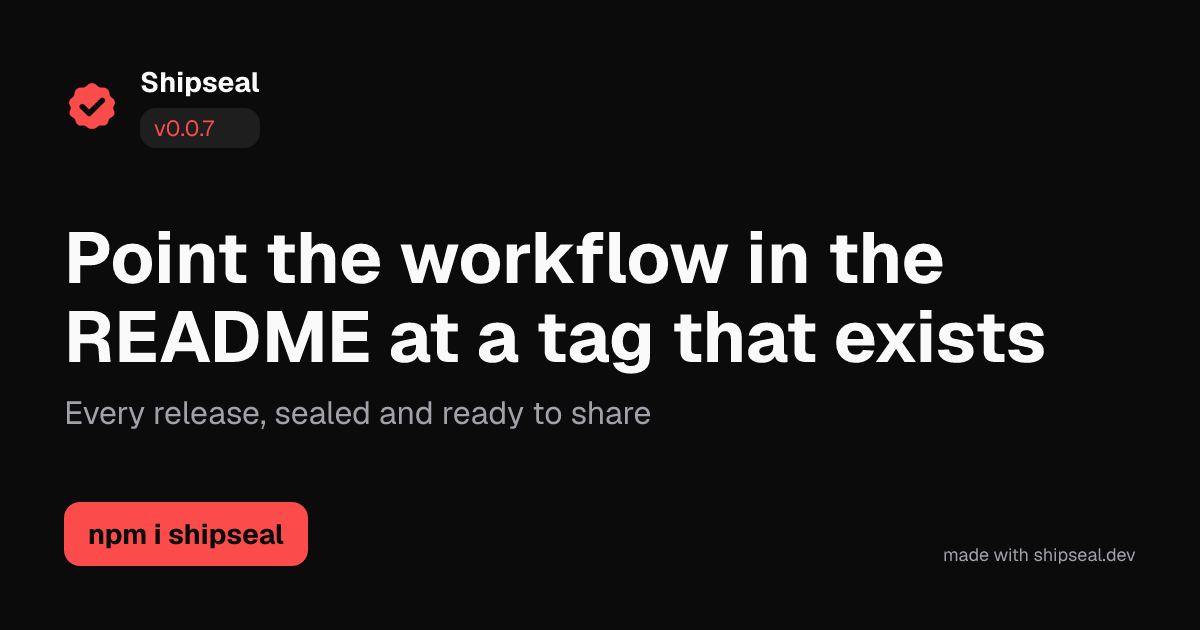
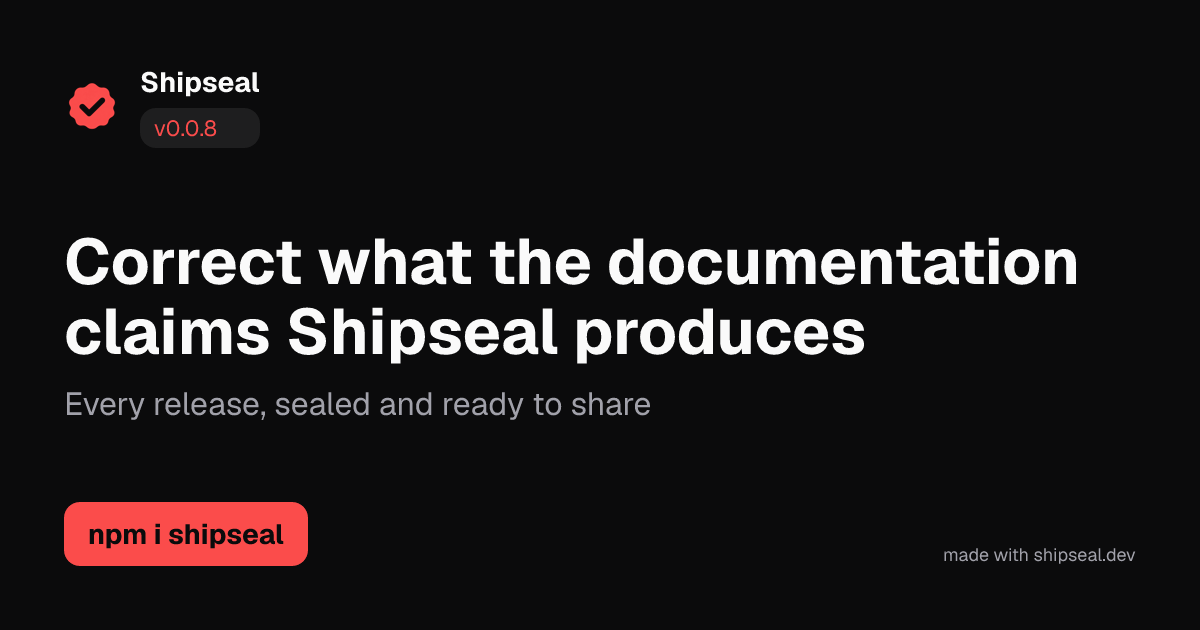
fix: update references to version v0.0.8 in documentation and workflows

diff --git a/README.md b/README.md
@@ -17,7 +17,7 @@ Shipseal turns your repo's releases, milestones, and benchmarks into ready-to-po
 
 ## What it produces
 
-Every image below was generated by Shipseal for its own `v0.0.7` release, by the workflow in
+Every image below was generated by Shipseal for its own `v0.0.8` release, by the workflow in
 this repository. Nothing was edited by hand.
 
 <p align="center">
@@ -42,7 +42,7 @@ Code cards pull a snippet from your README or a file you point at, highlighted w
 rendered without a browser.
 
 The same release also produced GitHub social, X, and LinkedIn sizes, plus a highlights card.
-See the [v0.0.7 release](https://github.com/akii09/shipseal/releases/tag/v0.0.7) for the whole
+See the [v0.0.8 release](https://github.com/akii09/shipseal/releases/tag/v0.0.8) for the whole
 pack, attached automatically by the Action.
 
 ## Why
@@ -78,7 +78,7 @@ jobs:
     steps:
       - uses: actions/checkout@v7
         with: { fetch-depth: 0 }
-      - uses: akii09/shipseal@v0.0.7
+      - uses: akii09/shipseal@v0.0.8
         env: { GITHUB_TOKEN: "${{ secrets.GITHUB_TOKEN }}" }
 ```
 

diff --git a/docs/PROJECT_PLAN.md b/docs/PROJECT_PLAN.md
@@ -972,7 +972,7 @@ jobs:
       - uses: actions/checkout@v7
         with:
           fetch-depth: 0   # required: full history and tags for release facts
-      - uses: akii09/shipseal@v0.0.7
+      - uses: akii09/shipseal@v0.0.8
         env:
           GITHUB_TOKEN: ${{ secrets.GITHUB_TOKEN }}
 ```

diff --git a/packages/shipseal/README.md b/packages/shipseal/README.md
@@ -49,7 +49,7 @@ jobs:
     steps:
       - uses: actions/checkout@v7
         with: { fetch-depth: 0 }
-      - uses: akii09/shipseal@v0.0.7
+      - uses: akii09/shipseal@v0.0.8
         env: { GITHUB_TOKEN: "${{ secrets.GITHUB_TOKEN }}" }
 ```
 
